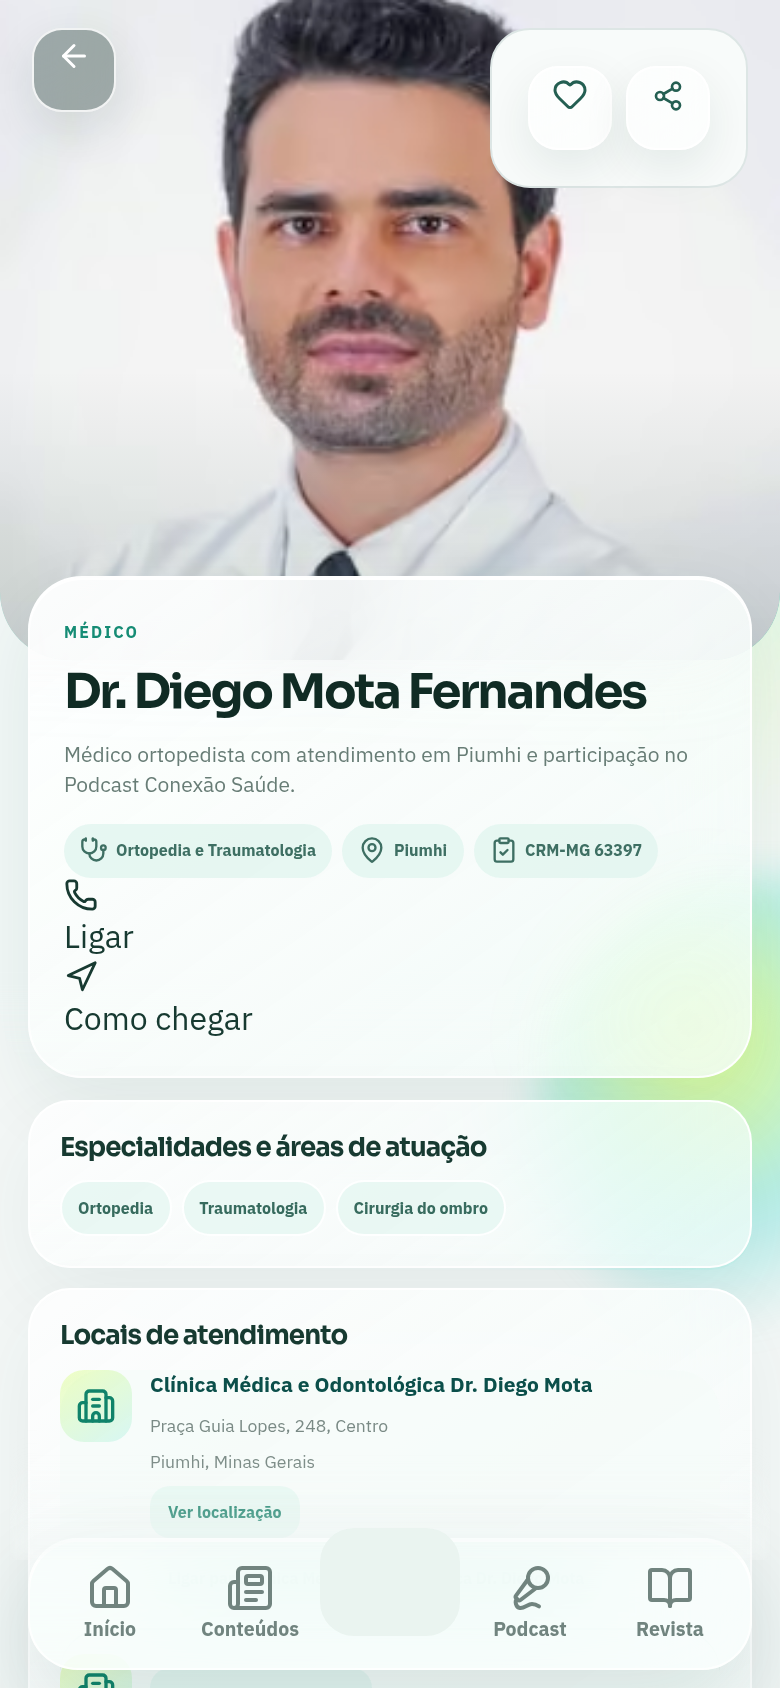
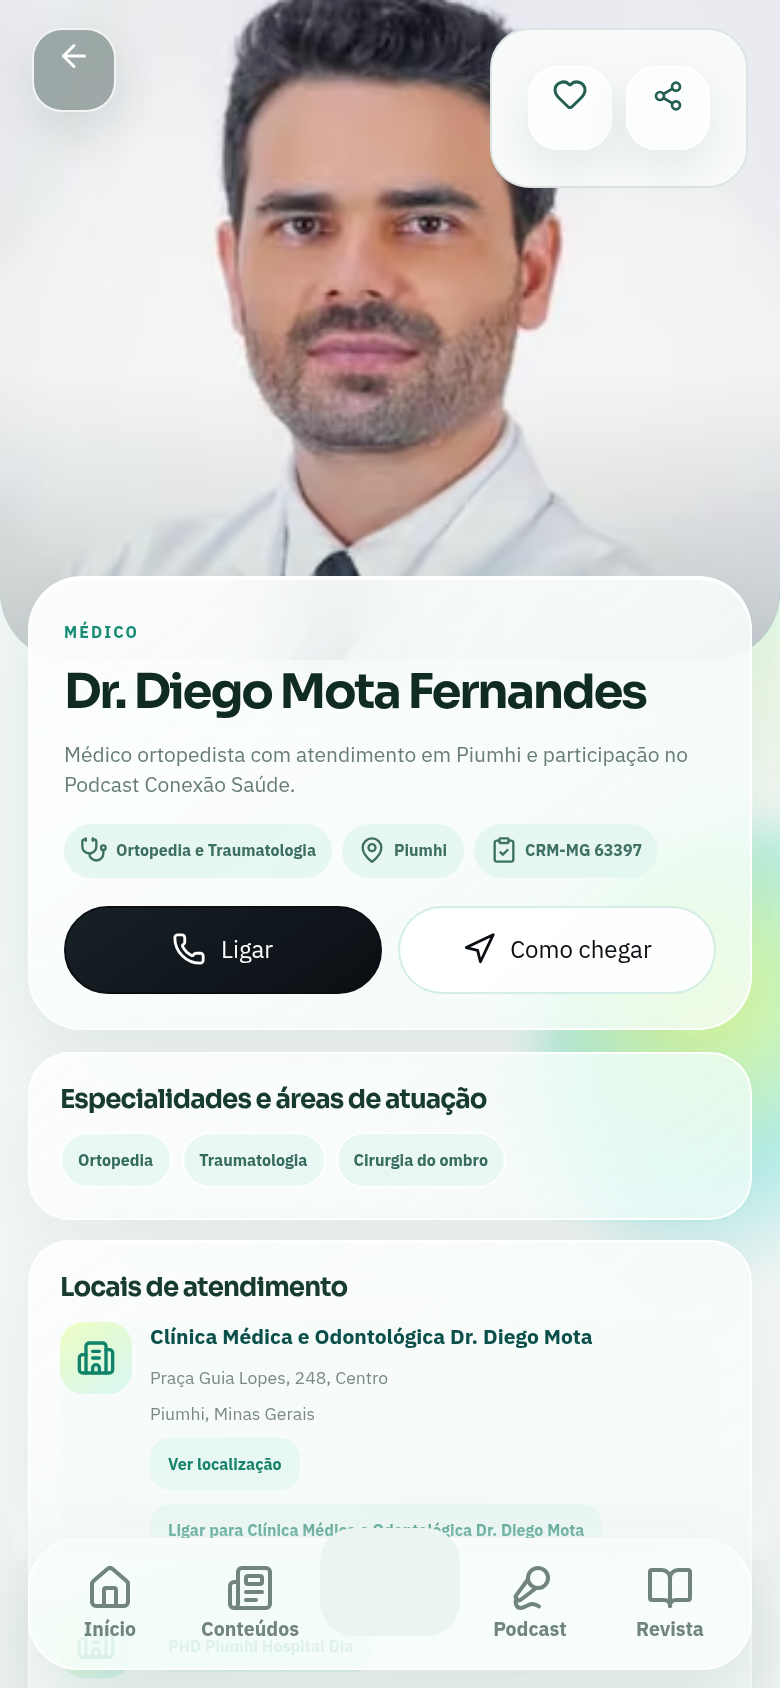
Corrige botoes de contato no perfil mobile

diff --git a/app/health-os-contrast-fixes.css b/app/health-os-contrast-fixes.css
@@ -57,3 +57,74 @@
     font-size: .78rem !important;
   }
 }
+
+
+@media (max-width: 760px) {
+  /* Keep primary contact actions in one clear two-column row. */
+  html.native-app .profile-primary-actions {
+    display: grid !important;
+    grid-template-columns: repeat(2, minmax(0, 1fr)) !important;
+    gap: 8px !important;
+    width: 100% !important;
+    margin-top: 14px !important;
+  }
+
+  html.native-app .profile-primary-actions .profile-primary-action {
+    width: 100% !important;
+    min-width: 0 !important;
+    min-height: 44px !important;
+    padding: 0 9px !important;
+    font-size: 12px !important;
+    white-space: nowrap !important;
+  }
+
+  html.native-app .profile-primary-actions .profile-primary-action svg {
+    flex: 0 0 auto !important;
+  }
+}
+
+
+@media (max-width: 760px) {
+  /* Fallback for mobile web loads where html.native-app is not present yet. */
+  .profile-primary-actions {
+    display: grid !important;
+    grid-template-columns: repeat(2, minmax(0, 1fr)) !important;
+    gap: 8px !important;
+    width: 100% !important;
+    margin-top: 14px !important;
+  }
+
+  .profile-primary-actions .profile-primary-action {
+    display: inline-flex !important;
+    align-items: center !important;
+    justify-content: center !important;
+    gap: 7px !important;
+    width: 100% !important;
+    min-width: 0 !important;
+    min-height: 44px !important;
+    padding: 0 9px !important;
+    border-radius: 999px !important;
+    font-size: 12px !important;
+    line-height: 1 !important;
+    white-space: nowrap !important;
+    text-decoration: none !important;
+  }
+
+  .profile-primary-actions .profile-primary-call {
+    background: linear-gradient(145deg, #172126, #0b0f14) !important;
+    color: #fff !important;
+    border: 1px solid #0b0f14 !important;
+  }
+
+  .profile-primary-actions .profile-primary-route {
+    background: rgba(255,255,255,.9) !important;
+    color: #0b0f14 !important;
+    border: 1px solid rgba(15,157,126,.18) !important;
+  }
+
+  .profile-primary-actions .profile-primary-action svg {
+    width: 17px !important;
+    height: 17px !important;
+    flex: 0 0 auto !important;
+  }
+}
